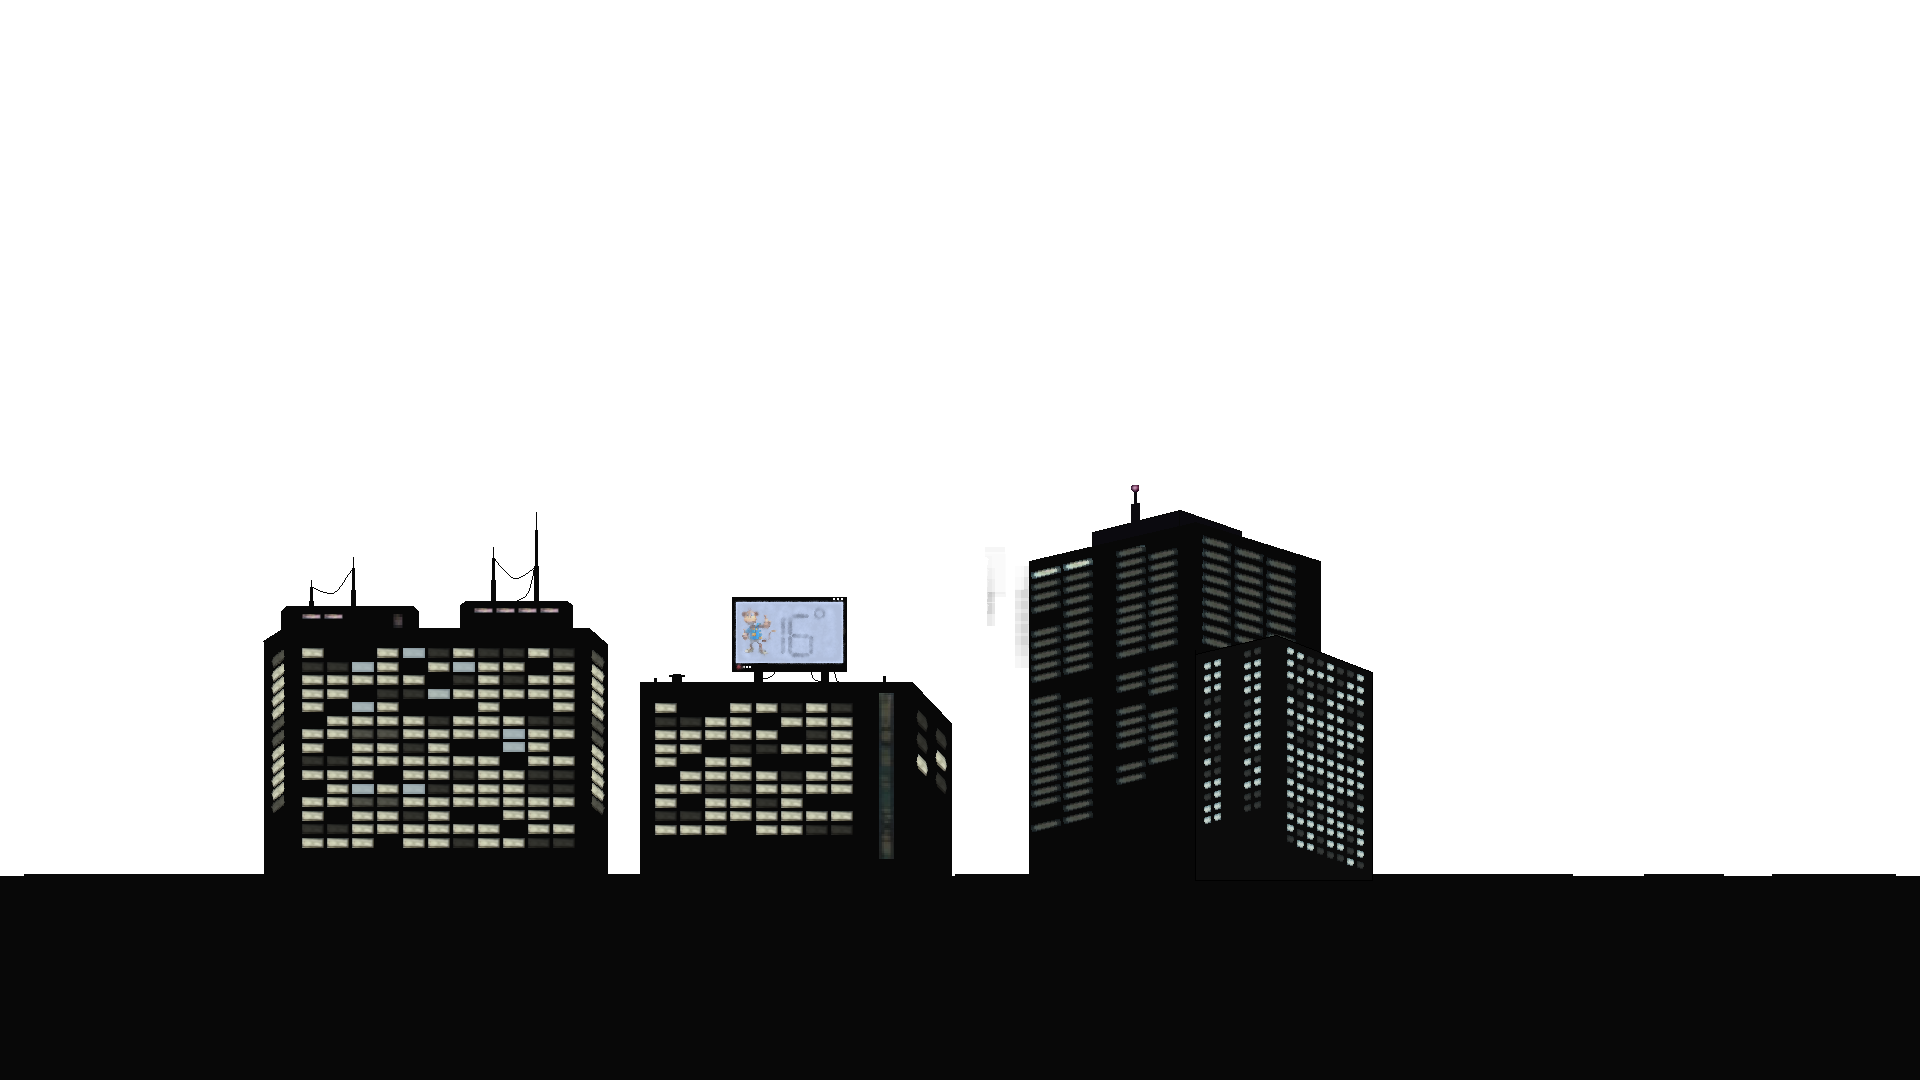
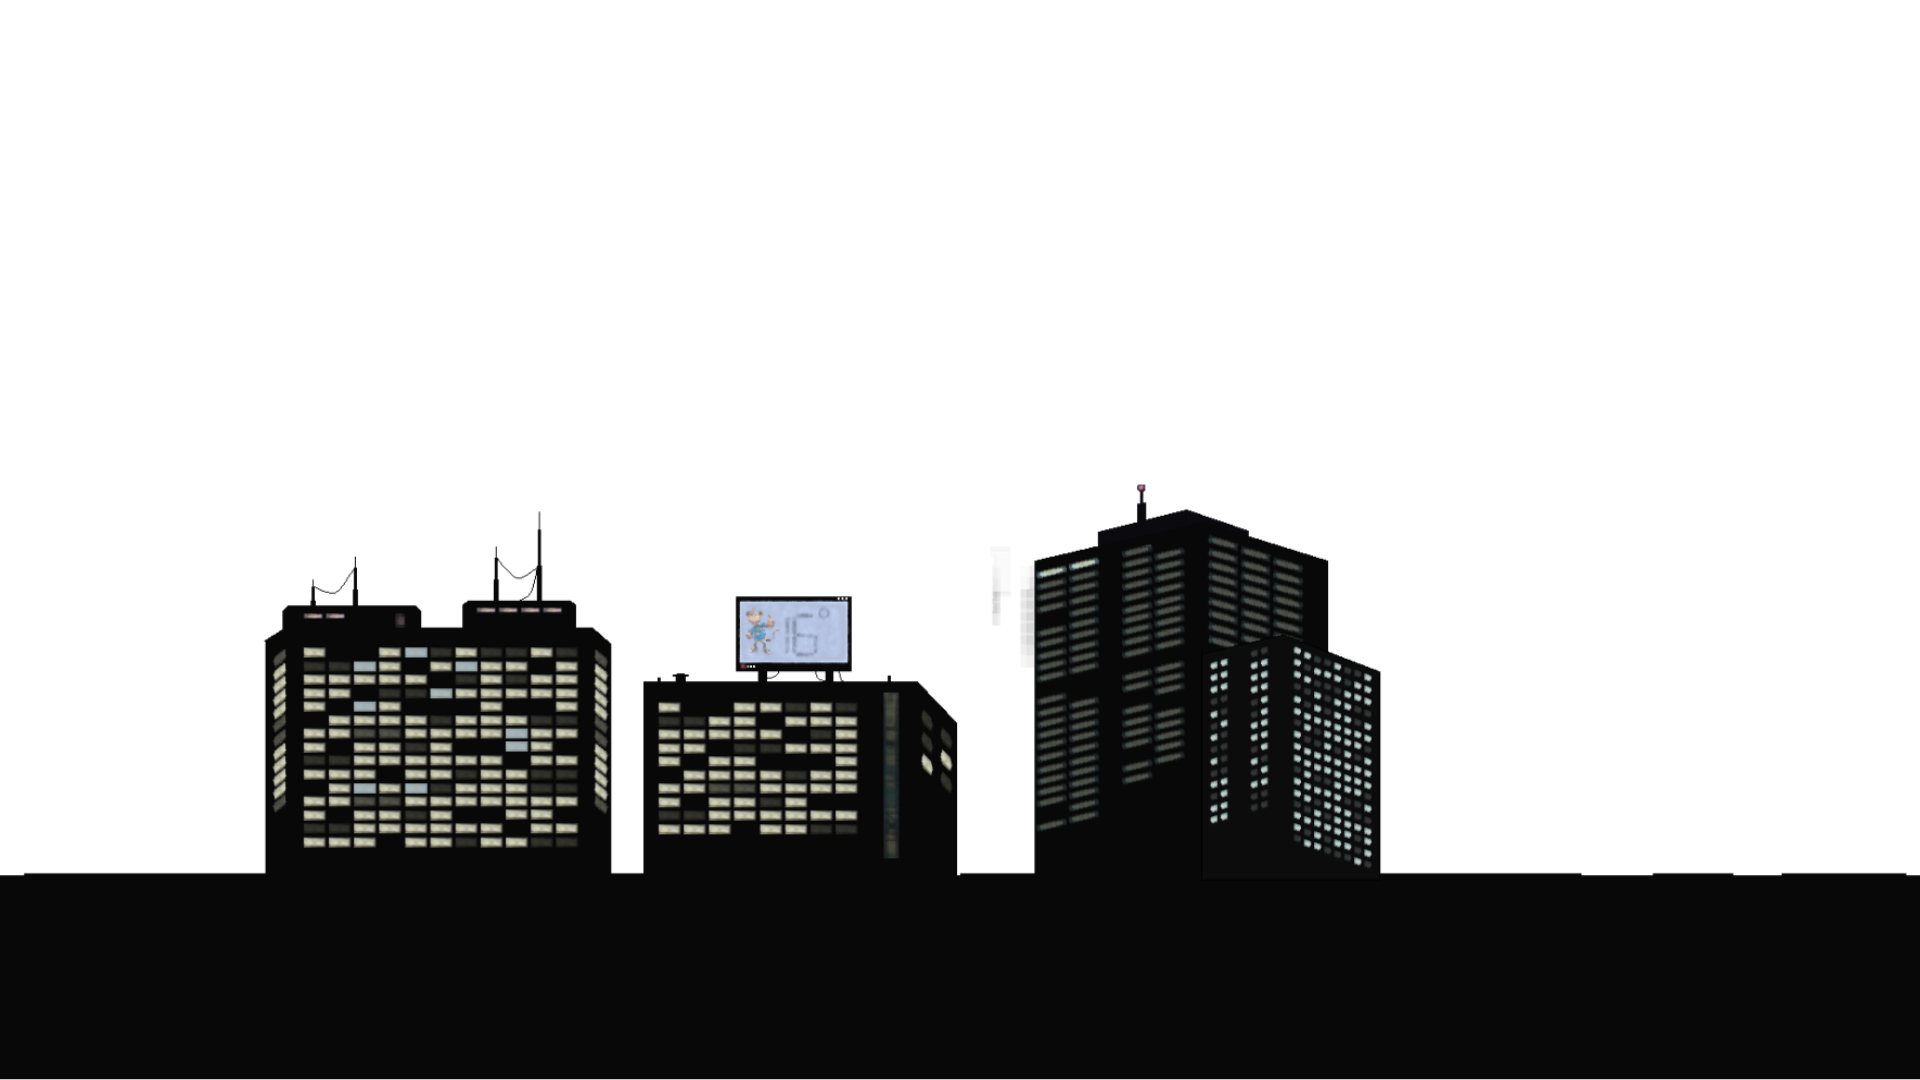
Removed parallax and added new images

Changed region(s): [[0.125, 0.4889, 0.5, 0.7944], [0.5, 0.4583, 0.7188, 0.825], [0.1562, 0.5194, 0.1875, 0.5806]]

diff --git a/src/components/City.jsx b/src/components/City.jsx
@@ -14,28 +14,6 @@ export default function City() {
       return () => window.removeEventListener('scroll', handleScroll);
     }, []);
 
-    useEffect(() => {
-      const handleParallax = (e) => {
-        const parallax = document.querySelector('.parallax');
-        const back1 = document.querySelector('.parallax-back-1-layer');
-        const back2 = document.querySelector('.parallax-back-2-layer');
-        const front = document.querySelector('.parallax-front-layer');
-        const sFront = 3000;
-        const sBack1 = 1200;
-        const sBack2 = 2000;
-        const xOffest = -1.5;
-
-        if (parallax && front && back1 && back2) {
-          const x = e.clientX;
-          back1.style.transform = `translate(${(x / sBack1) + -2}%)`;
-          back2.style.transform = `translate(${(x / sBack2) + xOffest}%)`;
-          front.style.transform = `translate(${(x / sFront) + xOffest}%)`;
-        }
-      };
-      window.addEventListener('mousemove', handleParallax);
-      return () => window.removeEventListener('mousemove', handleParallax);
-    }, []);
-
     return (
         <section id="projects"
          className="w-screen h-fit relative">
